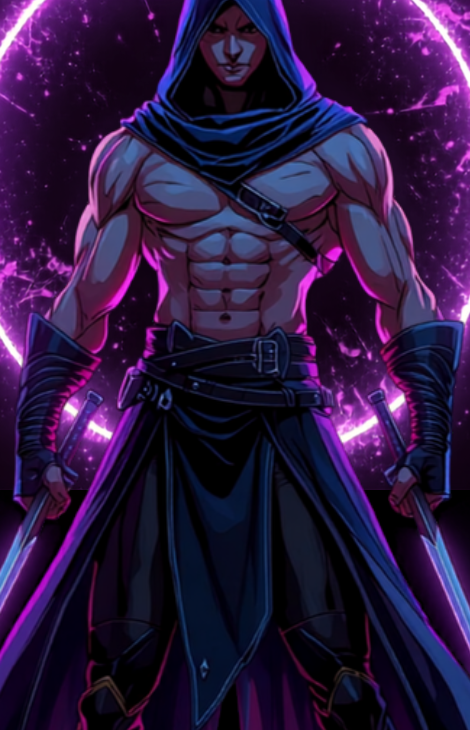
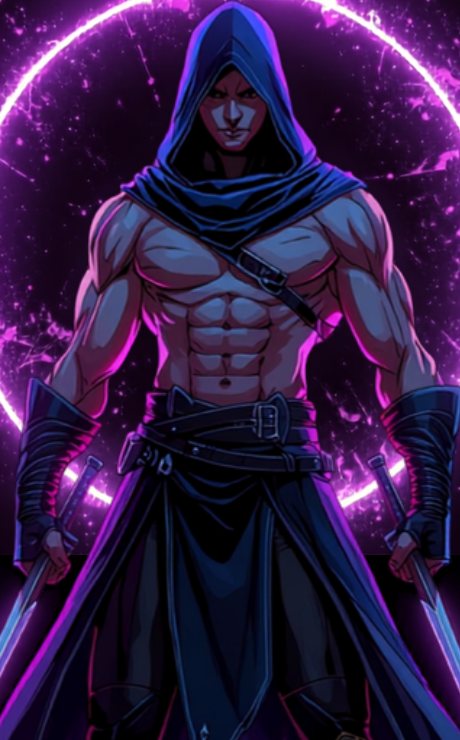
fix(ui): icono cuerpo (sombra cuadrada web + Ionicon), reencuadre arte y foto completa en detalle
- body-photo: el icono de cuerpo tenia sombra sin borderRadius/dimensiones ->
  halo cuadrado en web (gotcha CLAUDE.md). Ahora circular + Ionicon 'body'
  en vez de la figura cruda de Views. Quitar emoji del boton 'Tomar foto'.
- character-select: thumbnails reencuadrados (cuerpo centrado) + imagen
  COMPLETA del personaje al seleccionarlo (characterFullImage).

diff --git a/src/app/onboarding/body-photo.tsx b/src/app/onboarding/body-photo.tsx
@@ -4,6 +4,7 @@ import Animated, { FadeInDown } from 'react-native-reanimated';
 import { useRouter } from 'expo-router';
 import * as ImagePicker from 'expo-image-picker';
 import { LinearGradient } from 'expo-linear-gradient';
+import { Ionicons } from '@expo/vector-icons';
 import { useAuth } from '../../hooks/useAuth';
 import { useUpdateProfile } from '../../hooks/useData';
 import { useHunterData } from '../../hooks/useHunterData';
@@ -121,16 +122,7 @@ export default function BodyPhotoScreen() {
                     start={{ x: 0, y: 0 }} end={{ x: 1, y: 1 }}
                     style={styles.bodyIconGrad}
                   >
-                    {/* Silueta humana con formas simples */}
-                    <View style={styles.figureWrap}>
-                      <View style={styles.figureHead} />
-                      <View style={styles.figureBody} />
-                      <View style={styles.figureArms} />
-                      <View style={styles.figureLegsRow}>
-                        <View style={styles.figureLeg} />
-                        <View style={styles.figureLeg} />
-                      </View>
-                    </View>
+                    <Ionicons name="body" size={52} color="#fff" />
                   </LinearGradient>
                 </View>
 
@@ -141,7 +133,7 @@ export default function BodyPhotoScreen() {
                   Detecta tu tipo corporal, grupos musculares a priorizar y ajusta tu rutina automáticamente.
                 </SystemText>
 
-                <SystemButton title="📷  Tomar foto" variant="gradient" onPress={pickImage} />
+                <SystemButton title="Tomar foto" variant="gradient" onPress={pickImage} />
               </View>
             )}
           </SystemWindowPanel>
@@ -173,18 +165,13 @@ const styles = StyleSheet.create({
   placeholder: { alignItems: 'center', paddingVertical: spacing.lg },
   bodyIcon: {
     marginBottom: spacing.lg,
+    width: 100, height: 100, borderRadius: 50,
     shadowColor: gradients.brand[0],
     shadowOpacity: 0.6, shadowRadius: 24, shadowOffset: { width: 0, height: 6 },
   },
   bodyIconGrad: {
-    width: 100, height: 100, borderRadius: radius.pill,
+    width: 100, height: 100, borderRadius: 50,
     alignItems: 'center', justifyContent: 'center',
   },
-  figureWrap: { alignItems: 'center', gap: 3 },
-  figureHead: { width: 18, height: 18, borderRadius: 9, backgroundColor: 'rgba(255,255,255,0.9)' },
-  figureBody: { width: 26, height: 22, borderRadius: 6, backgroundColor: 'rgba(255,255,255,0.85)' },
-  figureArms: { width: 38, height: 8, borderRadius: 4, backgroundColor: 'rgba(255,255,255,0.7)', marginTop: -6 },
-  figureLegsRow: { flexDirection: 'row', gap: 6, marginTop: 2 },
-  figureLeg: { width: 10, height: 20, borderRadius: 5, backgroundColor: 'rgba(255,255,255,0.85)' },
   preview: { width: '100%', height: 340, borderRadius: radius.lg, marginBottom: spacing.md },
 });

diff --git a/src/constants/game.ts b/src/constants/game.ts
@@ -53,9 +53,11 @@ export function formForRank(rank: HunterRank): CharacterForm {
 // este archivo se actualiza para apuntar a los .png reales (Fase 6).
 // Por ahora todas usan el placeholder.
 const placeholder = require('../../assets/characters/placeholder.png');
-// Arte real generado (mismo asset para las 3 formas hasta tener variantes awakened/final).
+// Arte real: thumbnail (recortado a torso) + full (cuerpo completo para el detalle).
 const kael = require('../../assets/characters/kael.png');
 const ragnar = require('../../assets/characters/ragnar.png');
+const kaelFull = require('../../assets/characters/kael_full.png');
+const ragnarFull = require('../../assets/characters/ragnar_full.png');
 
 /** Slugs que ya tienen arte real (el resto cae a emoji/placeholder en la UI). */
 export const CHARS_WITH_ART = new Set<string>(['kael', 'ragnar']);
@@ -68,6 +70,16 @@ export const characterImages: Record<string, Record<CharacterForm, number>> = {
   aria: { base: placeholder, awakened: placeholder, final: placeholder },
   kenta: { base: placeholder, awakened: placeholder, final: placeholder },
 };
+
+// Imagen completa (cuerpo entero) para el detalle al seleccionar.
+const characterImagesFull: Record<string, number> = {
+  kael: kaelFull,
+  ragnar: ragnarFull,
+};
+
+export function characterFullImage(slug: string): number {
+  return characterImagesFull[slug] ?? placeholder;
+}
 
 export function characterImage(slug: string, rank: HunterRank): number {
   const forms = characterImages[slug];

diff --git a/src/app/onboarding/character-select.tsx b/src/app/onboarding/character-select.tsx
@@ -6,7 +6,7 @@ import { LinearGradient } from 'expo-linear-gradient';
 import * as Haptics from 'expo-haptics';
 import { useAuth } from '../../hooks/useAuth';
 import { useCharacters, useUpdateProfile } from '../../hooks/useData';
-import { characterImage, CHARS_WITH_ART } from '../../constants/game';
+import { characterImage, characterFullImage, CHARS_WITH_ART } from '../../constants/game';
 import { colors, gradients, radius, spacing } from '../../theme/system';
 import {
   AuroraBackground,
@@ -131,6 +131,14 @@ export default function CharacterSelectScreen() {
         {selected ? (
           <Animated.View entering={FadeInDown.delay(0).springify()} key={selected.id}>
             <SystemWindowPanel style={styles.detailCard}>
+              {/* Imagen completa del personaje */}
+              {CHARS_WITH_ART.has(selected.slug) && (
+                <Image
+                  source={characterFullImage(selected.slug)}
+                  style={styles.detailImg}
+                  resizeMode="contain"
+                />
+              )}
               {/* Cabecera */}
               <View style={styles.detailHeader}>
                 <View style={{ flex: 1 }}>
@@ -225,6 +233,7 @@ const styles = StyleSheet.create({
   cardTitle: { fontSize: 11, textAlign: 'center' },
 
   detailCard: { gap: spacing.md },
+  detailImg: { width: '100%', height: 380, borderRadius: radius.md, backgroundColor: colors.bg },
   detailHeader: { flexDirection: 'row', alignItems: 'flex-start', gap: spacing.md },
   detailName: { fontSize: 26, fontWeight: '900', lineHeight: 30 },
 